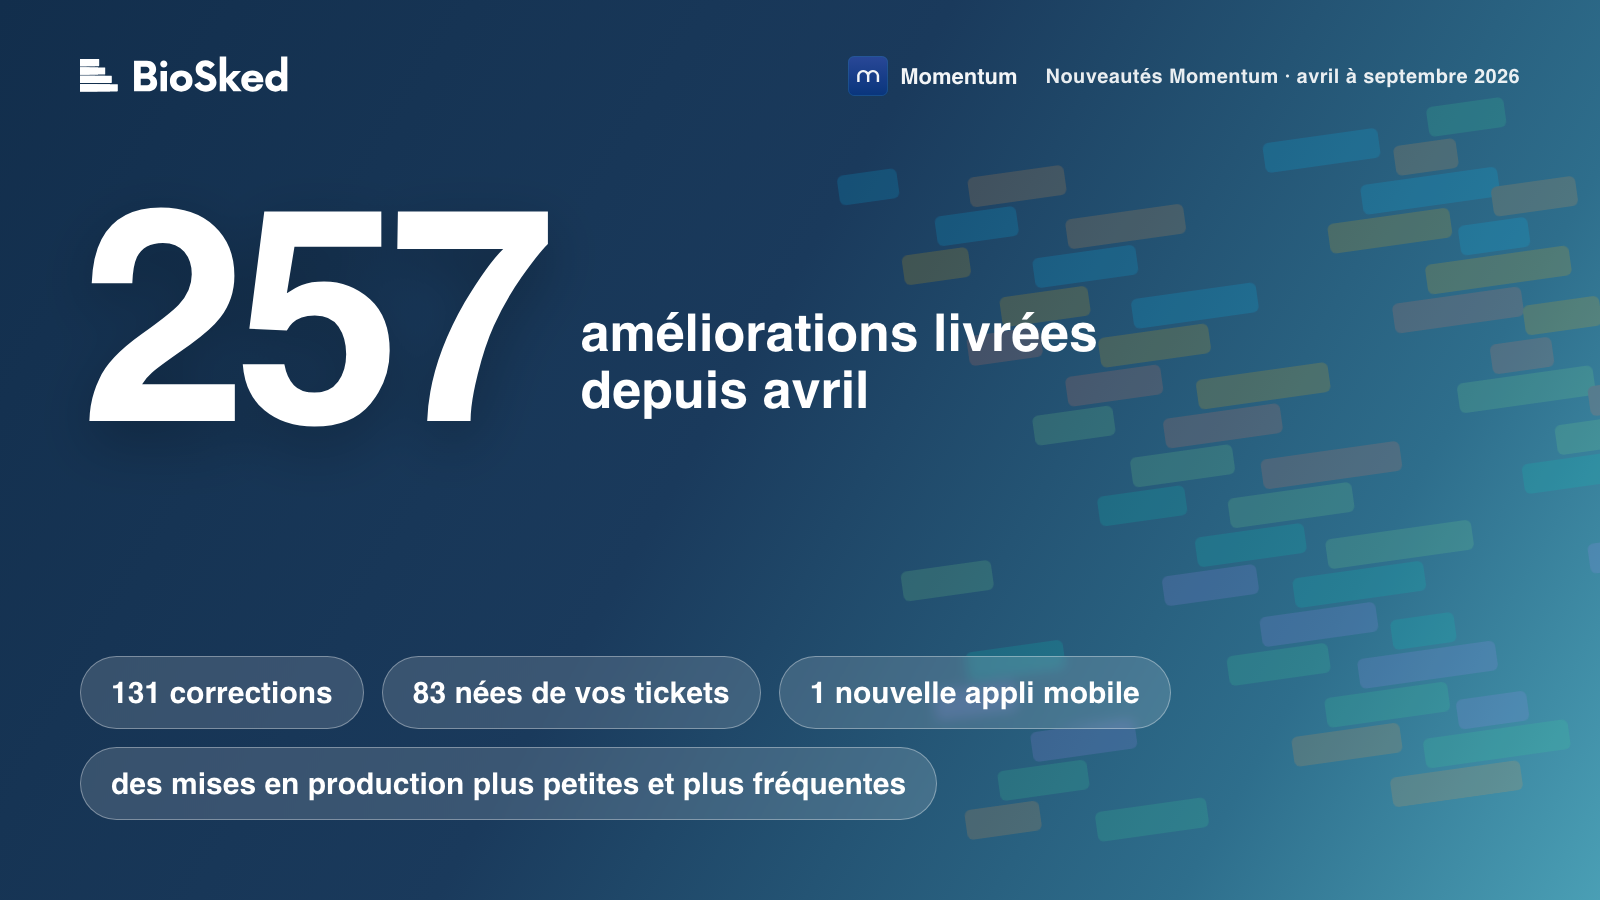
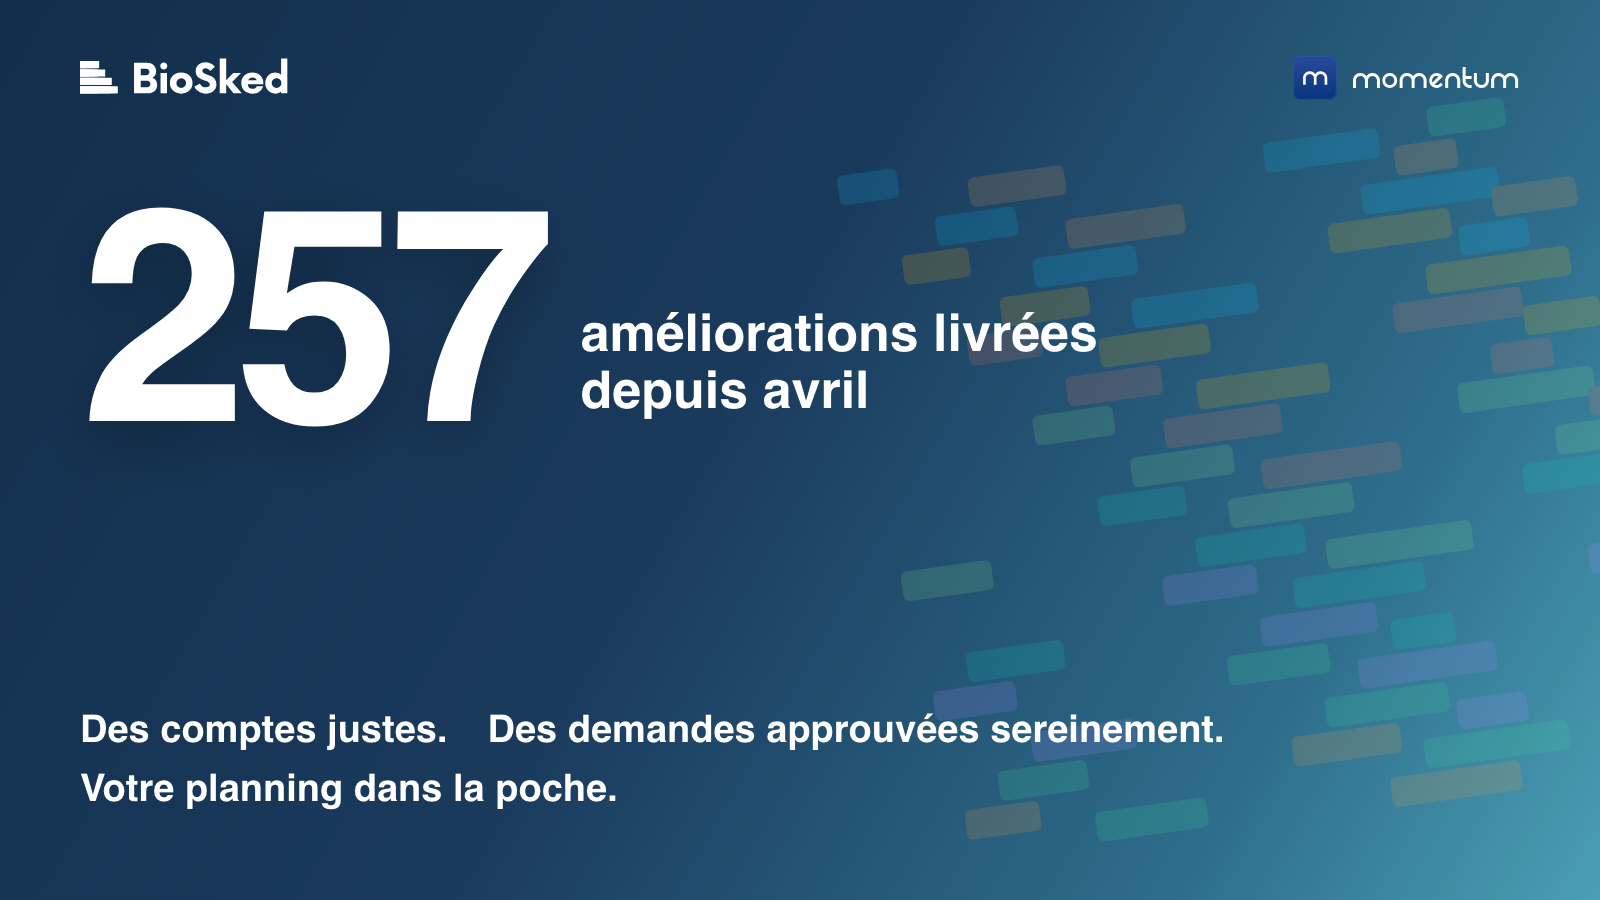
Blog: quote formatting, we/our team voice, demo-form calls to action, mobile visual, new hero
- quotes in the house format (italic quote, cite line)
- section renamed 'How we improve Momentum' / 'Comment nous améliorons Momentum'
- the team shows things, not the author; French closing line rewritten
- French calls to action lead to the demo form (/fr/demo/)
- mobile app visual added to both posts; hero without version pills, with
  the benefit line and the Momentum wordmark

Changed region(s): [[0.0312, 0.7156, 0.75, 0.9333], [0.5312, 0.0622, 0.9688, 0.1244], [0.0312, 0.0622, 0.1875, 0.1244]]

diff --git a/src/pages/fr/blog/257-ameliorations-plus-tard-ce-que-vos-tickets-nous-ont-appris.md b/src/pages/fr/blog/257-ameliorations-plus-tard-ce-que-vos-tickets-nous-ont-appris.md
@@ -28,7 +28,7 @@ Tout cela est sorti en trois versions principales (4.5 en avril et mai, 4.6 en j
 
 ## Ce que nous avons corrigé, en clair
 
-J'ai regroupé les points marquants par problème résolu, parce que c'est ainsi que vous nous les avez envoyés.
+Nous avons regroupé les points marquants par problème résolu, parce que c'est ainsi que vous nous les avez envoyés.
 
 **Vos comptes d'heures et de congés tombent juste.** C'était la plus grosse famille de tickets, et la plus importante : une journée de récupération valorisée 24 h au lieu de 7 h, des congés qui se chevauchent comptés deux fois, un solde de congés impossible à suivre sans fausser le compte d'heures. Les termes de contrat comptent désormais les jours de congé séparément des heures travaillées. Et quand nous avons remplacé le moteur de calcul, nous avons vérifié qu'il ne changeait aucun des chiffres que vous voyez déjà : 4,3 millions de valeurs du rapport de synthèse des absences rejouées sur les 325 bases de production, zéro différence. Les corrections font que les comptes tombent juste ; le rejeu fait que le changement de moteur est invisible. Si le vôtre ne tombe toujours pas juste, dites-le-nous.
 
@@ -67,22 +67,23 @@ Tout est corrigé, et les notifications administrateur respectent désormais leu
 
 **Une nouvelle application mobile.** Reconstruite de zéro et disponible sur l'App Store et Google Play depuis juillet : un écran « aujourd'hui », la connexion par Face ID ou empreinte, un accès hors ligne chiffré à votre planning, la connexion Microsoft en un geste (et SAML pour les autres fournisseurs d'identité, votre service informatique saura), des notifications push plus rapides, le mode sombre, cinq langues. Vos premiers tickets à son sujet (réglages de visibilité des notes, demandes déposées qui n'apparaissaient pas, horaires personnalisés sur iPhone) sont corrigés, et les mises à jour partent désormais vers un petit groupe d'abord, puis vers tout le monde.
 
+![La nouvelle application mobile Momentum](../../../assets/images/momentum-mobile-app-2026-fr.png)
+
 **Se connecter, à tous les coups.** Des mots de passe longs qui ne permettaient plus de se connecter, des liens d'activation qui échouaient au second clic : corrigés. Le support voit désormais pourquoi une connexion a échoué, et « je n'arrive pas à me connecter » se règle en un seul échange.
 
-## Comment nous livrons désormais
+## Comment nous améliorons Momentum
 
 La version de juin a reconstruit 250 000 lignes de code historique sur des fondations modernes. Le bon choix pour les années à venir, et quelques semaines plus agitées que nous ne l'aurions voulu pour certains d'entre vous. Cela a aussi changé notre façon de livrer. Les grosses versions groupées, c'est terminé : depuis fin août, nous livrons de petits incréments, presque chaque semaine, d'abord sur quelques instances actives, et le [changelog](/fr/changelog/) montre ce qui est sorti et quand.
 
 ## Avec vos mots
 
-> « Support très réactif, problème de paramétrage, solution trouvée en moins de 24 h. Top ! »
-> Administrateur Momentum, France (enquête support, août)
+*« Support très réactif, problème de paramétrage, solution trouvée en moins de 24 h. Top ! »*<br><cite>Administrateur Momentum, France, enquête support, août 2026</cite>
 
-> « C'est un miracle de Noël ! Ça marche. Merci, merci, merci. »
-> Responsable imagerie, groupe médical, États-Unis (juin, traduit de l'anglais)
+*« C'est un miracle de Noël ! Ça marche. Merci, merci, merci. »*<br><cite>Responsable imagerie, groupe médical, États-Unis, juin 2026, traduit de l'anglais</cite>
 
-> « Depuis la mise à jour, la fonctionnalité est plutôt très bonne, plus simple. »
-> La personne qui demandait des notes d'utilisation, en mars. Cet article est une première réponse.
+*« Depuis la mise à jour, la fonctionnalité est plutôt très bonne, plus simple. »*<br><cite>La personne qui demandait des notes d'utilisation, mars 2026</cite>
+
+Cet article est une première réponse.
 
 ## Ce sur quoi nous travaillons ensuite
 
@@ -91,14 +92,14 @@ La version de juin a reconstruit 250 000 lignes de code historique sur des fonda
 - Une page Demandes unique dans la nouvelle interface : congés, travail supplémentaire et échanges sur un seul écran, avec des approbations date par date.
 - Des heures prêtes pour la paie : heures supplémentaires par taux, exports plus propres.
 - Pour les cabinets qui utilisent un agenda de rendez-vous en ligne : un pilote dans lequel un planning Momentum publié alimente cet agenda.
-- Et deux ou trois choses que je préfère vous montrer que vous décrire.
+- Et deux ou trois choses que notre équipe préfère vous montrer plutôt que vous décrire.
 
 ## Venez le voir
 
-- **JFR 2026**, Palais des Congrès de Paris, du 8 au 11 octobre, stand 126A.
+- **JFR 2026**, Palais des Congrès de Paris, du 8 au 11 octobre, stand 126A. [Réservez un créneau](/fr/demo/).
 - **Amérique du Nord :** RSNA 2026, Chicago, du 29 novembre au 3 décembre.
-- **Pour tous :** demandez à votre référent BioSked un tour de 20 minutes des nouveautés sur votre instance, ou parcourez la [base de connaissances](/fr/help/).
+- **Pour tous :** [parlez-nous](/fr/demo/) pour un tour de 20 minutes des nouveautés sur votre instance, ou parcourez la [base de connaissances](/fr/help/).
 
-Merci pour vos tickets. Chacun d'eux a fait avancer quelque chose.
+Merci pour vos retours. C'est avec eux que Momentum progresse.
 
 David Dudok de Wit, CEO, BioSked

diff --git a/src/pages/blog/posts/2026-09-07-what-we-fixed.md b/src/pages/blog/posts/2026-09-07-what-we-fixed.md
@@ -16,7 +16,7 @@ Fair point. We have been fixing and shipping all spring and summer, and telling 
 
 ## The numbers, and where they come from
 
-Between 1 April and 6 September we deployed 257 improvements to Momentum. I did not round that up. It is the number of items our engineering tracker marks as deployed in that window, from the fixes you can see to the plumbing behind them. Of those:
+Between 1 April and 6 September we deployed 257 improvements to Momentum. We did not round that up. It is the number of items our engineering tracker marks as deployed in that window, from the fixes you can see to the plumbing behind them. Of those:
 
 - 131 were fixes for things that were broken or behaving wrongly.
 - 83 came straight from a support ticket or a request one of you sent us.
@@ -27,7 +27,7 @@ They went out in three main releases (4.5 in April and May, 4.6 in June, 4.7 in 
 
 ## What we fixed, in plain language
 
-I have grouped the highlights by the problem they solve, because that is how you sent them to us.
+We grouped the highlights by the problem they solve, because that is how you sent them to us.
 
 **Your hours and time-off counts add up.** This was the biggest family of tickets, and the one that mattered most: a day off valued at 24 hours instead of 7, overlapping time-off counted twice, a time-off allowance you could not track without distorting the hours count. Contract terms now count time-off days separately from worked hours. And when we replaced the counting engine underneath, we made sure it changed none of the numbers you already see: we replayed 4.3 million time-off summary figures across all 325 production databases, zero differences. The fixes are what make the numbers add up; the replay is what makes the engine change invisible. If yours still does not add up, tell us.
 
@@ -66,22 +66,23 @@ All fixed, and admin notifications now respect their checkboxes.
 
 **A new mobile app.** Rebuilt from scratch and in the App Store and on Google Play since July: a "today" screen, sign-in with Face ID or fingerprint, encrypted offline access to your schedule, one-tap Microsoft sign-in (and SAML for other identity providers), faster push notifications, dark mode, five languages. Your first tickets on it (note visibility settings, submitted requests not showing, custom hours on iPhone) are fixed, and updates now go to a small group first, then to everyone.
 
+![The new Momentum mobile app](../../../assets/images/momentum-mobile-app-2026-en.png)
+
 **Getting in, every time.** Long passwords that could not sign in, activation links that failed on a second click: fixed. Support can now see why a sign-in failed, so "I can't get in" gets answered in one exchange.
 
-## How we ship now
+## How we improve Momentum
 
 The June update rebuilt 250,000 lines of legacy code on modern foundations. The right call for the years ahead, and it made a few weeks bumpier than we wanted for some of you. It also changed how we ship. Big bundled releases are over: since late August we ship small increments, most weeks, to a few active instances first, and the [changelog](/changelog/) shows what went out and when.
 
 ## In your words
 
-> "It's a Christmas miracle! It is working. Thank you, thank you, thank you."
-> Imaging supervisor, US medical group (June)
+*“It's a Christmas miracle! It is working. Thank you, thank you, thank you.”*<br><cite>Imaging supervisor, US medical group, June 2026</cite>
 
-> "I built the schedule out through the end of the year and it was 90% perfect. Now I know what the issues are, so I can easily correct them."
-> Practice manager, community health network, California (May)
+*“I built the schedule out through the end of the year and it was 90% perfect. Now I know what the issues are, so I can easily correct them.”*<br><cite>Practice manager, community health network, California, May 2026</cite>
 
-> "Since the update, the feature is really quite good, simpler."
-> The person who asked for usage notes, in March (translated from French). This post is a first answer.
+*“Since the update, the feature is really quite good, simpler.”*<br><cite>The person who asked for usage notes, March 2026, translated from French</cite>
+
+This post is a first answer.
 
 ## What we are working on next
 
@@ -89,14 +90,14 @@ The June update rebuilt 250,000 lines of legacy code on modern foundations. The 
 - Time-off policies switched on across instances, with rollover rules the next thing on the list.
 - A single Requests page in the new interface: time-off, extra work and swap requests on one screen, with approvals date by date.
 - Payroll-ready hours: extra hours by pay rate, cleaner exports.
-- And a few things I would rather show you than describe.
+- And a few things our team would rather show you than describe.
 
 ## Come and see it
 
 - **France:** JFR 2026, Paris, 8 to 11 October, stand 126A.
 - **North America:** RSNA 2026, Chicago, 29 November to 3 December. [Book a slot](/demo/) with us there.
-- **Everyone:** ask your customer success contact for a 20-minute tour of what is new on your instance, or browse the [knowledge base](/help/).
+- **Everyone:** [talk to us](/demo/) for a 20-minute tour of what is new on your instance, or browse the [knowledge base](/help/).
 
-Thank you for the tickets. Every one of them moved something.
+Thank you for your feedback. It is what moves Momentum forward.
 
 David Dudok de Wit, CEO, BioSked
